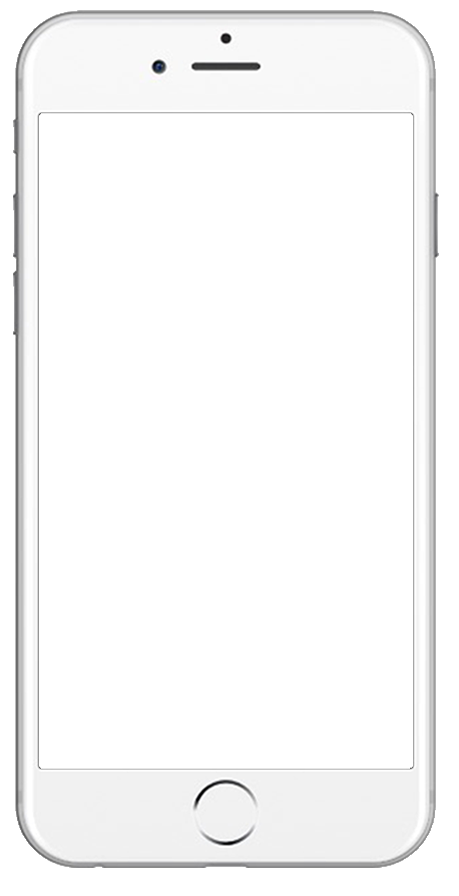
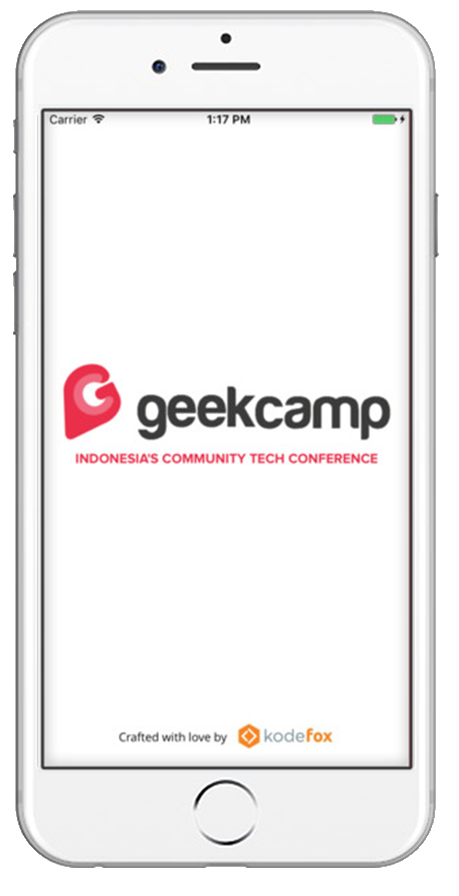
[FIX] Unite the apps image

Changed region(s): [[0.061, 0.0938, 0.915, 0.875]]

diff --git a/app/assets/stylesheets/_apps.scss b/app/assets/stylesheets/_apps.scss
@@ -68,14 +68,6 @@
   height: 100%;
 }
 
-.apps__phone-content {
-  width: 70%;
-  margin: -5px 5px 0 0;
-  position: relative;
-  top: 50%;
-  transform: translateY(-50%);
-}
-
 @media screen and (min-width: 67em) {
 
   .apps__container, .apps__top {
@@ -106,9 +98,5 @@
   .apps__logo-ios {
     width: 30%;
 
-  }
-
-  .apps__phone-content {
-    width: 83%;
   }
 }
